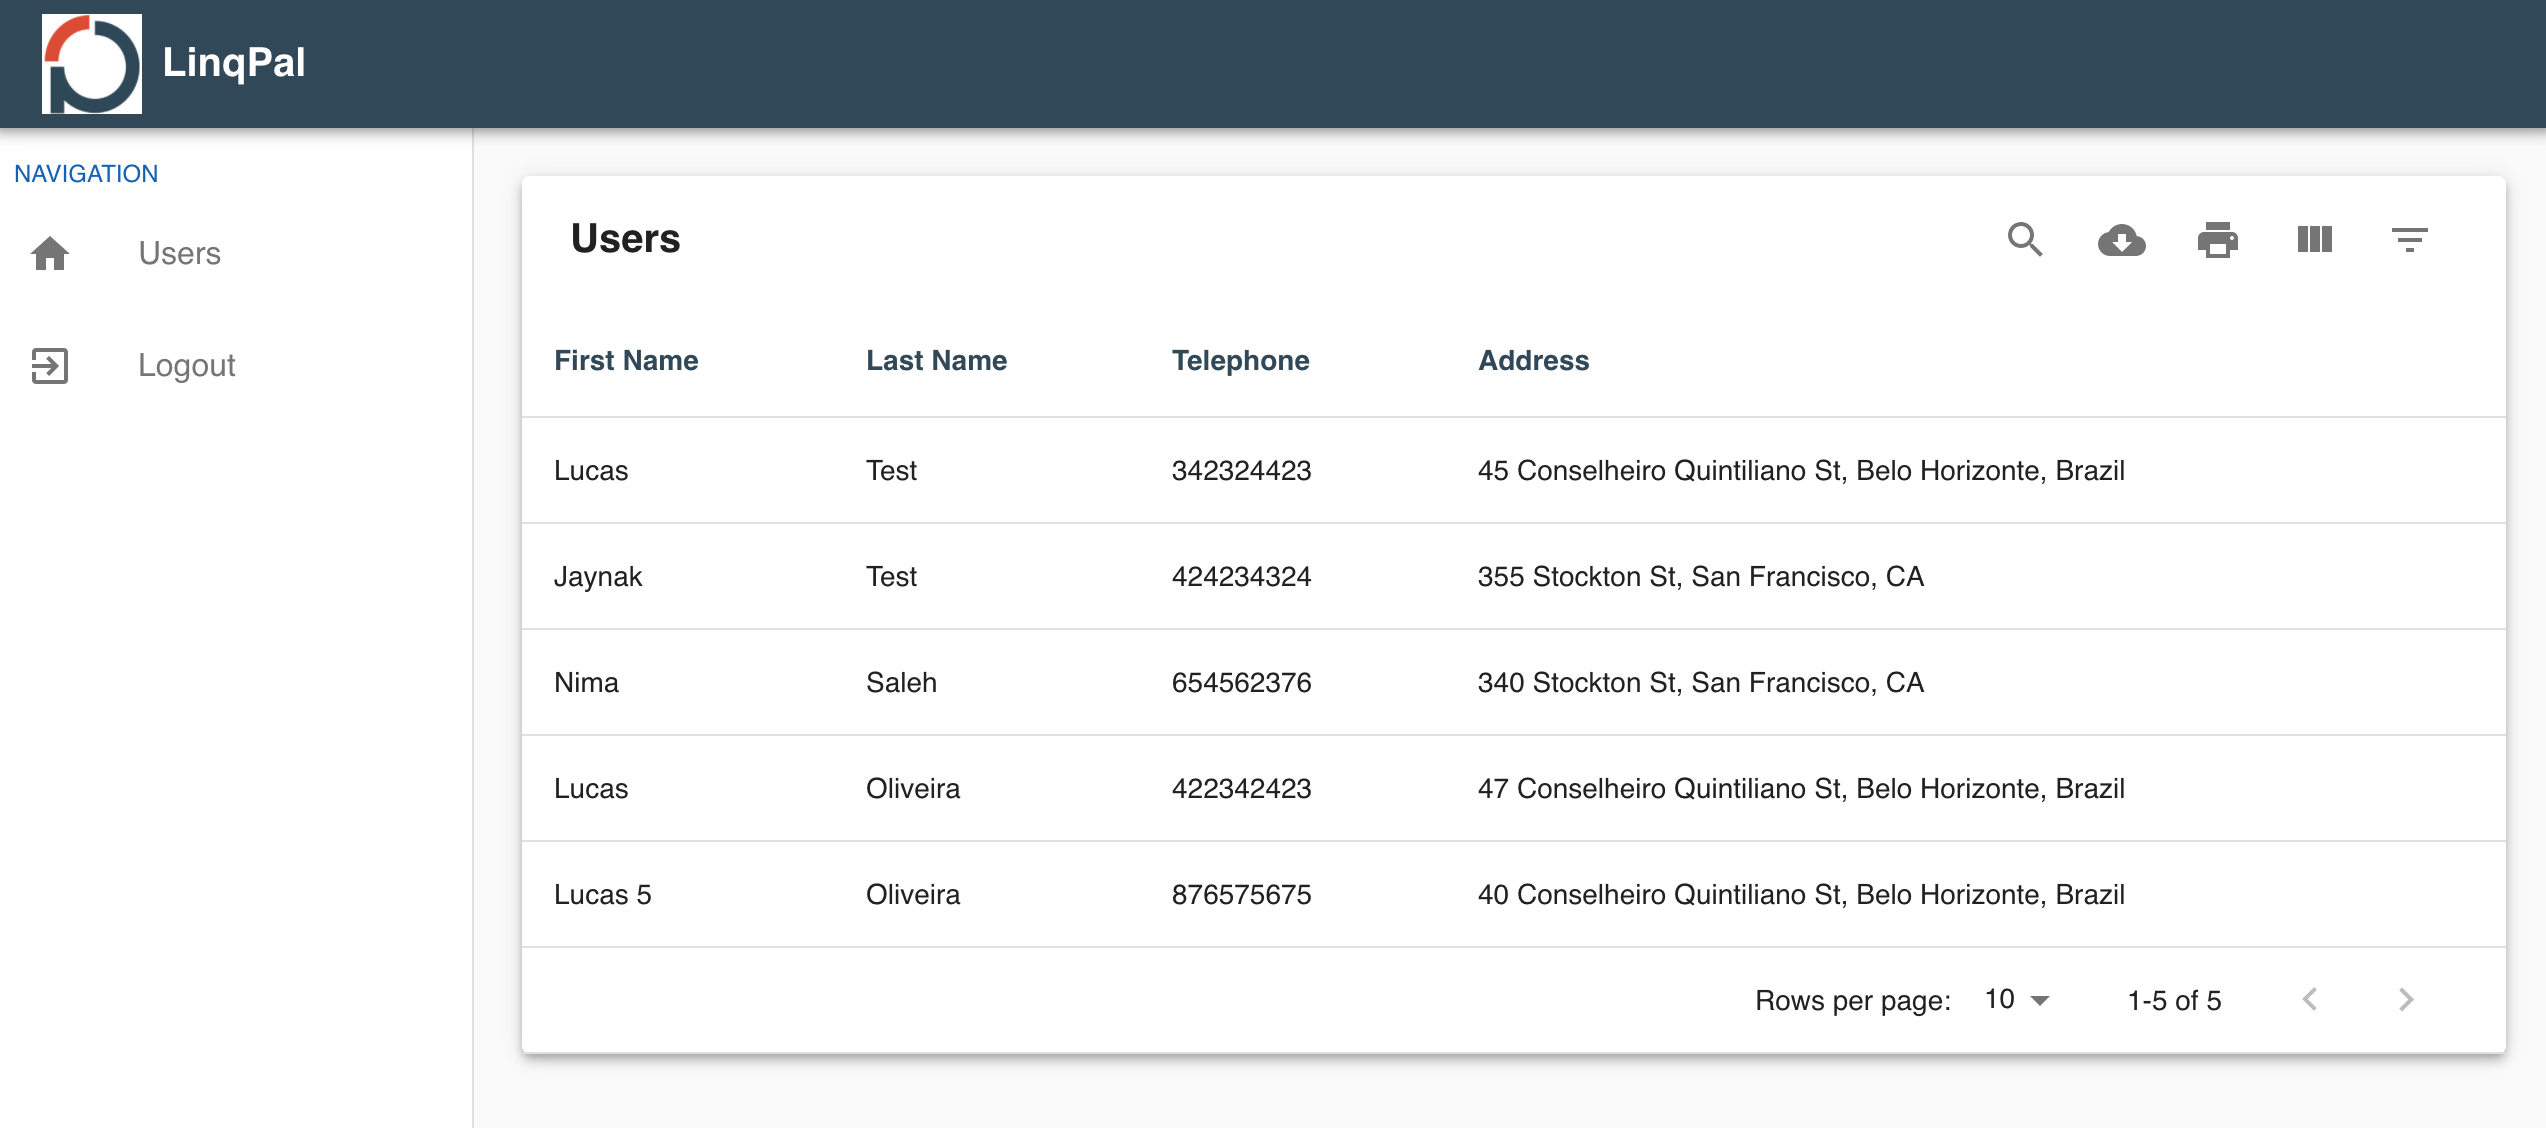
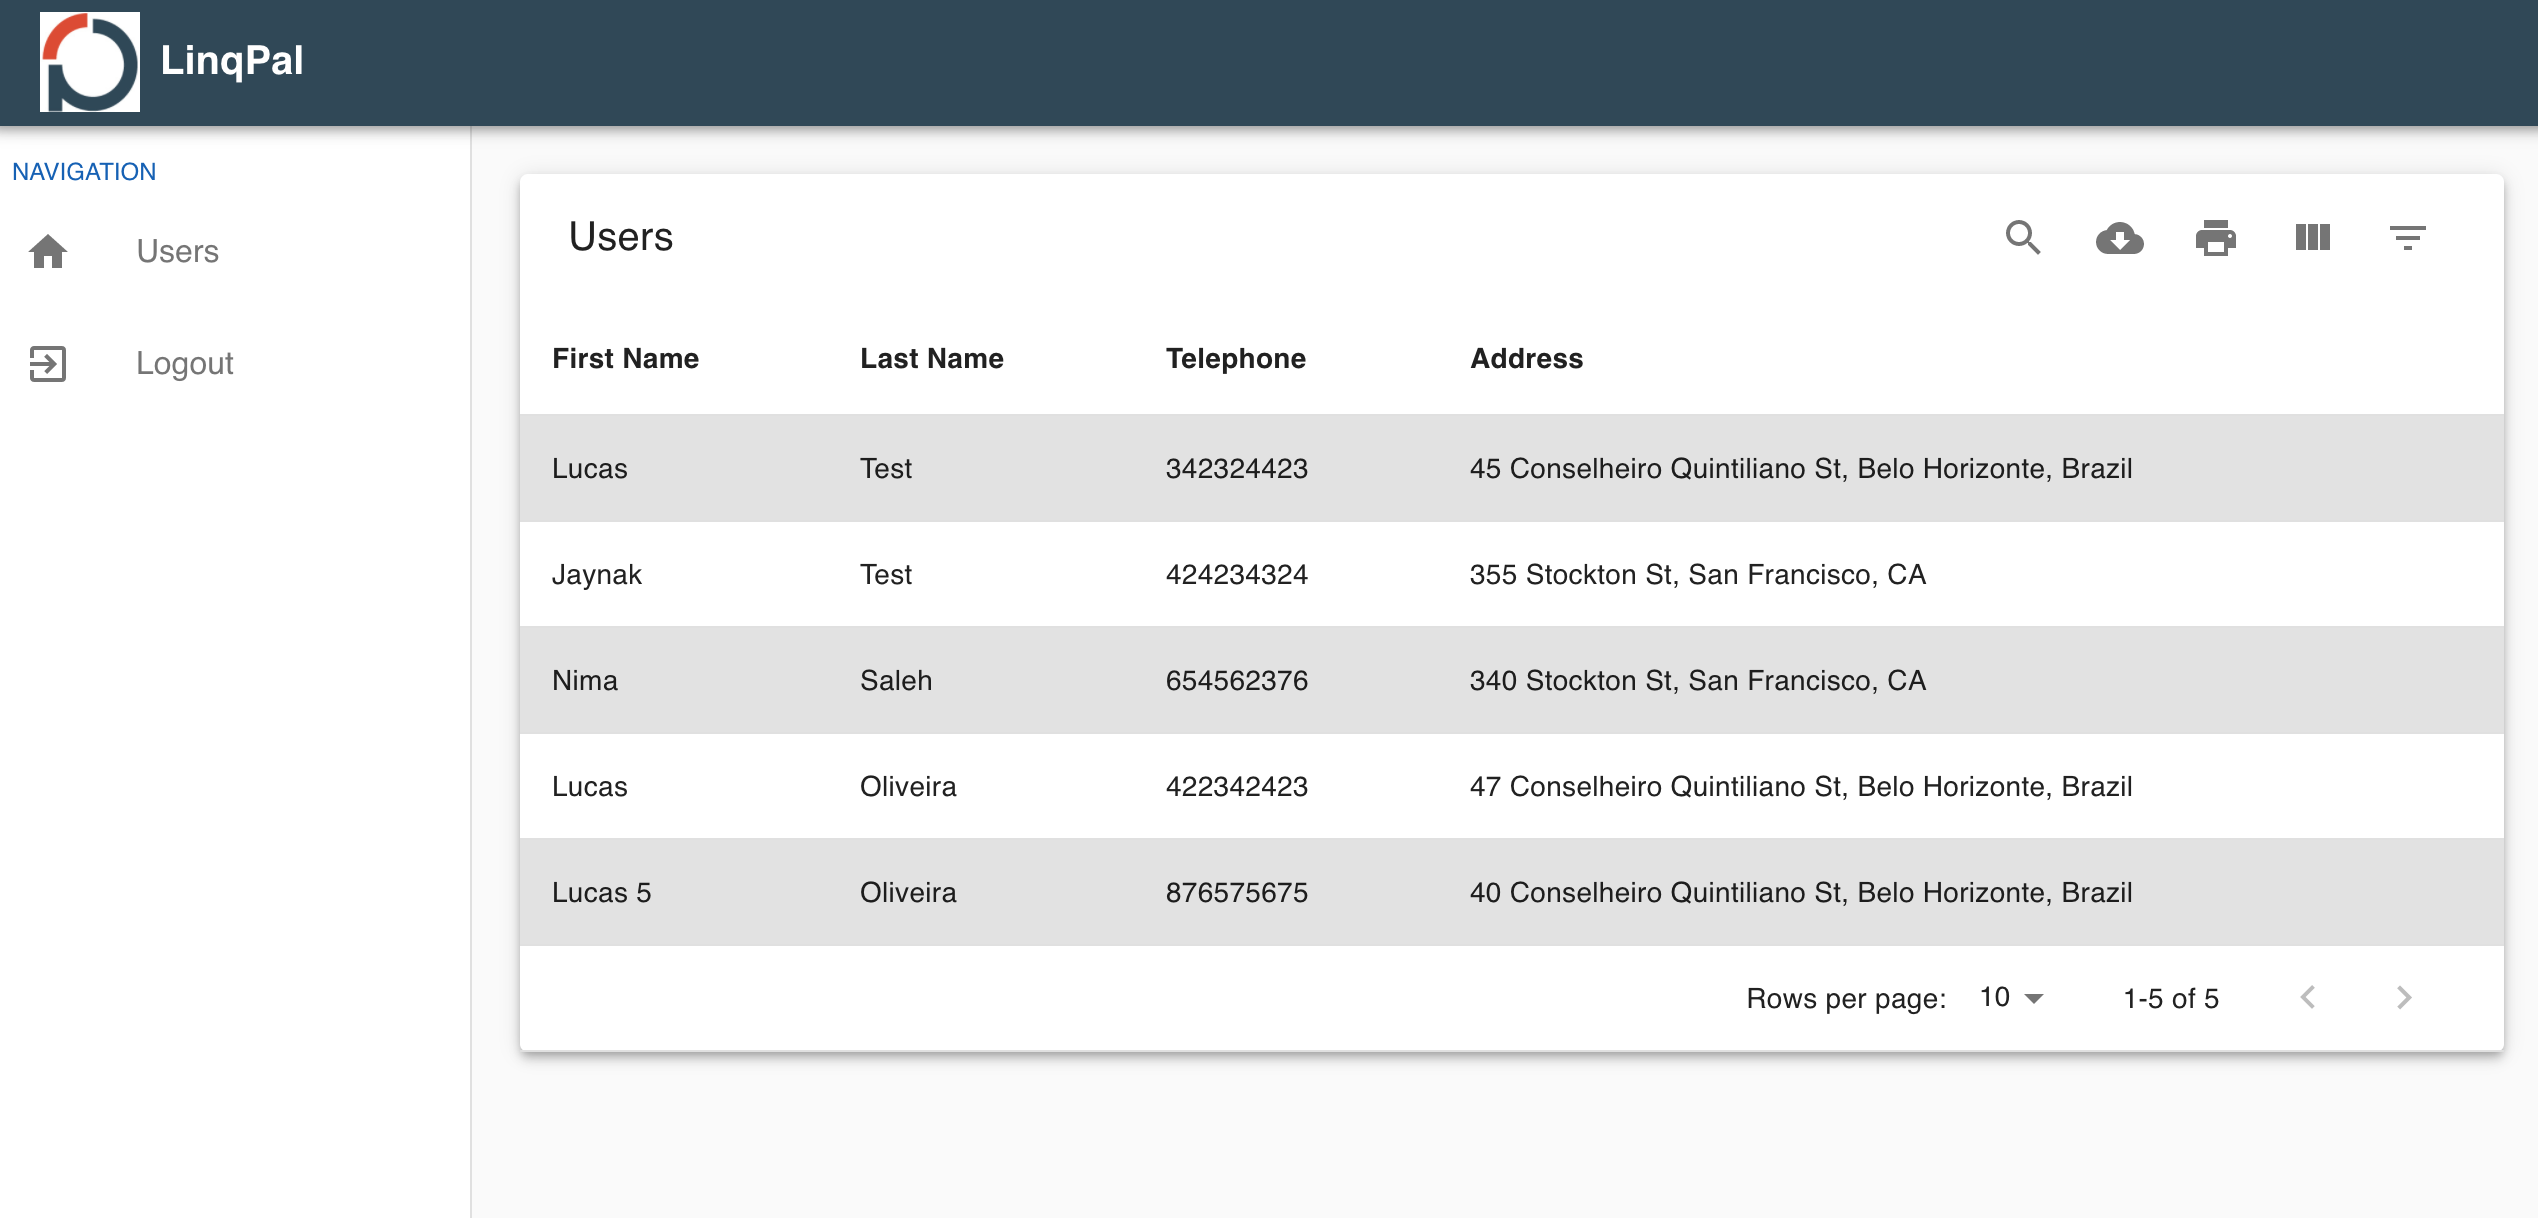
change image user-list and style table

diff --git a/frontend/src/pages/Users/index.js b/frontend/src/pages/Users/index.js
@@ -7,6 +7,7 @@ import CircularProgress from '@material-ui/core/CircularProgress';
 import { makeStyles } from '@material-ui/core/styles';
 import Grid from "@material-ui/core/Grid/Grid";
 import api from '../../services/api';
+import { MuiThemeProvider, createMuiTheme } from '@material-ui/core/styles'; 
 
 const useStyles = makeStyles(theme => ({
     root: {
@@ -18,6 +19,23 @@ const useStyles = makeStyles(theme => ({
         color: '#fff',
     },
 }));
+
+const getMuiTheme = createMuiTheme({
+    overrides: {
+        MUIDataTableBodyRow: {
+            root: {
+                '&:nth-child(odd)': { 
+                    backgroundColor: '#e2e2e2'
+                }
+            }
+        },
+        MUIDataTableHeadCell: {
+            root: {
+                fontWeight: '700'
+            }
+        }
+    }
+});
 
 export default function Users() {
     const classes = useStyles();
@@ -111,12 +129,14 @@ export default function Users() {
     return (
         <div className={classes.root}>
             <Grid item xs={12}>
-                <MUIDataTable
-                    title={"Users"}
-                    data={users}
-                    columns={columns}
-                    options={options}
-                />
+                <MuiThemeProvider theme={getMuiTheme}>
+                    <MUIDataTable
+                        title={"Users"}
+                        data={users}
+                        columns={columns}
+                        options={options}
+                    />
+                </MuiThemeProvider>
             </Grid>
             
             <Backdrop className={classes.backdrop} open={loading}>
